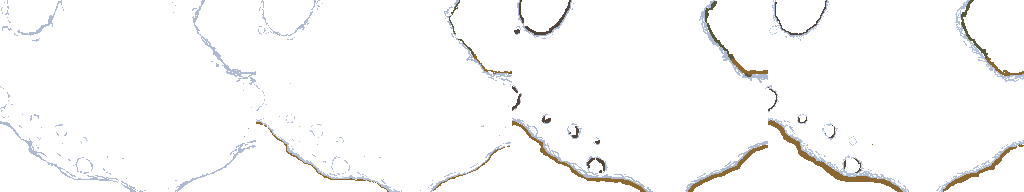
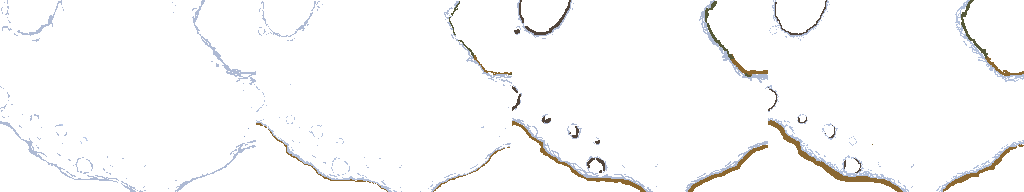
Added more sprites and a crabpot item that catches crustaceans

diff --git a/src/crabPot.ts b/src/crabPot.ts
@@ -1,0 +1,64 @@
+import { FISH_TIMER } from "./constants";
+import { FISH_DATA } from "./db";
+import gm from "./gm";
+import k from "./kaplayCtx";
+import { message } from "./messages";
+
+
+export function makeCrabPot(posY: number, posX: number) {
+    const pot = k.add([
+            k.sprite("crabpot", { anim: "idle" }),
+            k.pos(posY,posX),
+            k.area(),
+            k.z(2),
+            k.state("idle", ["idle", "submerged", "ready"]),
+        ]);
+        
+        const crabs = FISH_DATA.filter(fish => fish.feature === "Crabpot")
+        const totalWeight = crabs.reduce((sum, crab) => sum + (1 / crab.rarityScore), 0);
+        let chosenCrab = crabs[0]
+        let roll = Math.random() * totalWeight
+        for (const crab of crabs) {
+            roll -= (1 / crab.rarityScore);
+            if (roll <= 0) {
+                chosenCrab = crab
+                break
+            }
+        }
+
+        pot.onStateEnter("idle", () => {
+            pot.play("idle");
+        });
+
+        pot.onStateEnter("submerged", () => {
+            pot.play("submerged");
+        });
+
+        pot.onStateEnter("ready", () => {
+            pot.play("ready");
+        });
+
+
+        pot.onClick(() => {
+            if (pot.state === "idle") {
+                pot.enterState("submerged");
+            } else if (pot.state === "ready"){
+                gm.addFish(chosenCrab.fishId);
+                gm.unlockFish(chosenCrab.fishId);
+                message(`You Caught: ${chosenCrab.name}`)
+                pot.enterState("idle");
+            }
+        });
+
+        let potTimer = k.randi(FISH_TIMER/1.5,FISH_TIMER)
+        pot.onUpdate(() => {
+            if (pot.state === "submerged") {
+                potTimer -= 1
+            }
+
+            if (potTimer <= 0) {
+                pot.enterState("ready")
+                potTimer = k.randi(FISH_TIMER/1.5,FISH_TIMER)
+            }
+        })
+}

diff --git a/src/assetLoader.ts b/src/assetLoader.ts
@@ -17,6 +17,8 @@ export async function assetLoader() {
     k.loadSprite("night-shop", "./graphics/night-shop.png")
     k.loadSprite("shopborder", "./graphics/shopborder.png")
 
+    k.loadSprite("pier", "./graphics/pier.png")
+    k.loadSprite("pier-night", "./graphics/pier-night.png")
     k.loadSprite("ground", "./graphics/ground.png")
     k.loadSprite("sea", "./graphics/sea.png")
     k.loadSprite("night-ground", "./graphics/night-ground.png")
@@ -24,6 +26,18 @@ export async function assetLoader() {
 
     
     k.loadSprite("waves", "./graphics/waves.png", {
+        sliceX: 4,
+        anims: {
+            "normal": {
+                from: 0,
+                to: 3,
+                speed: 3,
+                frames: [0,1,2,3,2,1],
+                loop: true,
+            },
+        },
+    })
+    k.loadSprite("waves-night", "./graphics/waves-night.png", {
         sliceX: 4,
         anims: {
             "normal": {
@@ -48,6 +62,41 @@ export async function assetLoader() {
             },
         },
     })
+
+    k.loadSprite("crabpot", "./graphics/crabpot.png", {
+        sliceX: 3,
+        anims: {
+            "idle": 0,
+            "submerged": 1,
+            "ready": 2,
+        },
+    })
+
+    k.loadSprite("bird", "./graphics/bird.png", {
+        sliceX: 3,
+        anims: {
+            "normal": {
+                from: 0,
+                to: 2,
+                speed: 2,
+                frames: [0,1,2,1,0],
+                loop: true,
+            },
+        },
+    })
+    k.loadSprite("crab", "./graphics/crab.png", {
+        sliceX: 3,
+        anims: {
+            "normal": {
+                from: 0,
+                to: 2,
+                speed: 2,
+                frames: [0,1,2,1,0],
+                loop: true,
+            },
+        },
+    })
+
 
     soundGen(soundsList)
     fishGen(fishesList)
@@ -177,6 +226,8 @@ let fishesList =
   "carp",
   "catfish-locked",
   "catfish",
+  "crayfish-locked",
+  "crayfish",
   "dragonfish-locked",
   "dragonfish",
   "eel-locked",
@@ -189,6 +240,8 @@ let fishesList =
   "esox",
   "fishbones-locked",
   "fishbones",
+  "freshwatercrab-locked",
+  "freshwatercrab",
   "freshwaterdrum-locked",
   "freshwaterdrum",
   "frogmouthcatfish-locked",
@@ -207,6 +260,8 @@ let fishesList =
   "humpbackchub",
   "largemouthbass-locked",
   "largemouthbass",
+  "lordcray-locked",
+  "lordcray",
   "oldboot-locked",
   "oldboot",
   "olly-locked",
@@ -220,6 +275,8 @@ let fishesList =
   "perch",
   "rudd-locked",
   "rudd",
+  "shrimp-locked",
+  "shrimp",
   "shyfish-locked",
   "shyfish",
   "slatefish-locked",
@@ -241,6 +298,7 @@ let fishesList =
 
 let itemsList = 
 [
+  "crabpot-icon",
   "beer",
   "birdfeed",
   "bugfeed",
@@ -262,5 +320,6 @@ let itemsList =
   "pipe",
   "rancidgloop",
   "redrum",
-  "woodrod"
+  "woodrod",
+  "attickey"
 ]

diff --git a/src/db.ts b/src/db.ts
@@ -164,6 +164,18 @@ export const ITEM_DATA: ShopObj[] = [
     desc: `Feed to a bug to make them happy`,
     price: 15, unlocked: false, feature: "Item"},
 
+    {itemId: "23", name: "Attic Key", sprite: "attickey",
+    desc: `Sleep in the shop attic. Grants access to the night level`,
+    price: 1000, unlocked: false, feature: "Unique"},
+
+    {itemId: "24", name: "Crab Pot", sprite: "crabpot-icon",
+    desc: `Catch crustaceans passively while fishing.`,
+    price: 750, unlocked: false, feature: "Unique"},
+
+    {itemId: "25", name: "A second Crab Pot", sprite: "crabpot-icon",
+    desc: `Catch more crustaceans passively while fishing.`,
+    price: 800, unlocked: false, feature: "Unique"},
+
     //  next up decor and endgame items
 
     //  pier, lantern, red lights, beach umbrella, beach chair, 4 monuments, medal of completion.
@@ -493,6 +505,30 @@ export const FISH_DATA: FishObj[] = [
     After all the dreams I had and tall tales I expected something more...grand.
     People used to trick others with scales from this fish, claiming they were from a dragon." - Shopkeeper"`,
     unlocked: false, difficulty: 33, price: 1000, feature: "Unique"},
+
+    {fishId: "41", name: "Freshwater Crab", sprite: "freshwatercrab", spriteLocked: "freshwatercrab-locked", activeTime: "Other",
+    maxSize: 3, maxWeight: 3, rarityScore: 3,
+    desc: `The rare cousin of the crab, 
+    they are endemic to few parts of the world.`,
+    unlocked: false, difficulty: 1, price: 80, feature: "Crabpot"},
+
+    {fishId: "42", name: "Shrimp", sprite: "shrimp", spriteLocked: "shrimp-locked", activeTime: "Other",
+    maxSize: 3, maxWeight: 3, rarityScore: 1,
+    desc: `A widespread and abundant crustacean.`,
+    unlocked: false, difficulty: 1, price: 50, feature: "Crabpot"},
+
+    {fishId: "43", name: "Crayfish", sprite: "crayfish", spriteLocked: "crayfish-locked", activeTime: "Other",
+    maxSize: 3, maxWeight: 3, rarityScore: 2,
+    desc: `Names used for crayfish in different locations include baybugs, 
+    crabfish, craws, crawfish, crawdaddies, crawdads, freshwater lobsters, 
+    mountain lobsters, mudbugs, rock lobsters, or yabbies.`,
+    unlocked: false, difficulty: 1, price: 65, feature: "Crabpot"},
+    
+    {fishId: "44", name: "Lord Cray", sprite: "lordcray", spriteLocked: "lordcray-locked", activeTime: "Other",
+    maxSize: 3, maxWeight: 3, rarityScore: 8,
+    desc: `Lord of the craws, father to crawdads. Lord Cray has ruled this region
+    for nearly 200 years, he is nearly twice the size of other crayfish.`,
+    unlocked: false, difficulty: 1, price: 200, feature: "Crabpot"},
 
 ];
 

diff --git a/src/levels/day.ts b/src/levels/day.ts
@@ -1,6 +1,7 @@
 import { addSprite } from "../assetLoader";
 import { openBag } from "../bag";
 import { ANCHOR, COLORS, FISH_AMOUNT, FISH_TIMER, fishingArea, fontConfigSmall } from "../constants";
+import { makeCrabPot } from "../crabPot";
 import { generateFishes } from "../entities/fishes";
 import { throwLine } from "../fishing";
 import gm from "../gm";
@@ -28,7 +29,9 @@ export async function day() {
         gm.nightTime ? addSprite("night-sea") : addSprite("sea");
         gm.nightTime ? addSprite("night-ground", k.z(2)) : addSprite("ground", k.z(2));
 
-        const waves = k.add([k.sprite("waves"), k.z(1)]) // TODO: add nightwaves, currently ground color too light on anim
+
+        let chosenWaves = gm.nightTime ? "waves-night" : "waves";
+        const waves = k.add([k.sprite(chosenWaves), k.z(1)]) // TODO: add nightwaves, currently ground color too light on anim
         waves.play("normal");
 
 
@@ -90,23 +93,15 @@ export async function day() {
         let btnColor = gm.nightTime ? COLORS.ORANGE : COLORS.DARKRED
 
         const PADDING = 5;
-
-        let pier = k.add ([
+        
+        let chosenpier= gm.nightTime ? "pier-night" : "pier";
+        k.add ([
             "pier",
-            k.rect(30,40),
-            k.color(COLORS.BROWN),
+            k.sprite(chosenpier),
             k.pos(k.width()/2, k.height()),
             k.anchor("bot"),
             k.z(2)
         ])
-        k.add([
-            "player",
-            k.pos(k.vec2(k.width() / 2, k.height() -pier.height)),
-            k.anchor("center"),
-            k.rect(1,14),
-            k.z(2),
-            k.color(COLORS.DARKRED) // TODO: update to reflect equipped rod color
-        ]);
         
         const menuBtn = k.add([
             k.text("Menu", fontConfigSmall),
@@ -201,7 +196,11 @@ export async function day() {
             openBag();
         })
 
-
+        // crab pots
+        if (gm.itemsUnlocked.includes("24")) makeCrabPot(k.width()-30, k.height()-60)
+        if (gm.itemsUnlocked.includes("25")) makeCrabPot(k.width()-60, k.height()-40)
+        
+        
 
         // initialize
         if (gm.lastLogin === 0){

diff --git a/src/constants.ts b/src/constants.ts
@@ -4,9 +4,10 @@ import k from "./kaplayCtx";
 
 // normal value 2000-5000
 // item boosted value 600-1000
+// current: 3500
 export const FISH_TIMER = 3500;
 export const FISH_AMOUNT = 14
-export const ANCHOR = k.vec2(k.width() / 2, k.height() - 47)
+export const ANCHOR = k.vec2(k.width() / 2 - 1, k.height() - 47)
 
 
 

diff --git a/src/fishing.ts b/src/fishing.ts
@@ -241,7 +241,7 @@ export function throwLine(anchor: Vec2, power: number) {
                     if (fish.feature === "Grunting") playSound("thumping", "sfx", 3, false, -2000, 2)
                     else playSound("new-fish-caught", "sfx")
                 }
-
+                
                 gm.addFish(fishId);
                 gm.removeFishFromPool(fishId)
                 gm.enterState("fishing")